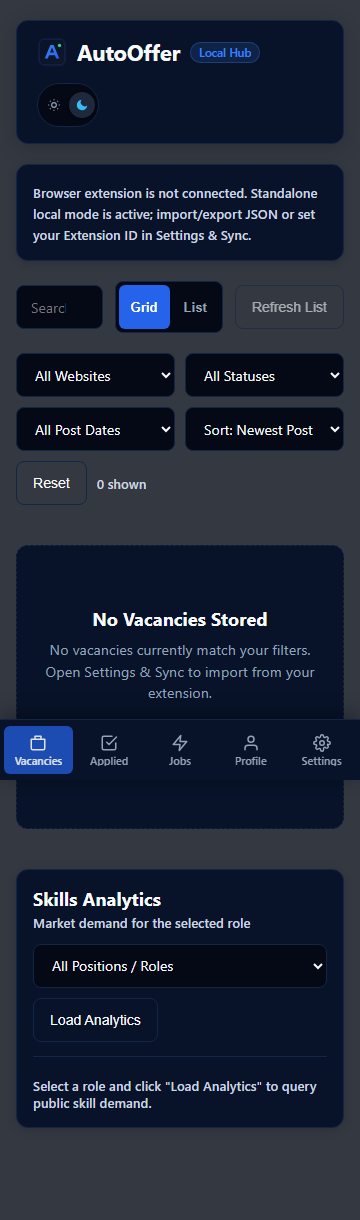
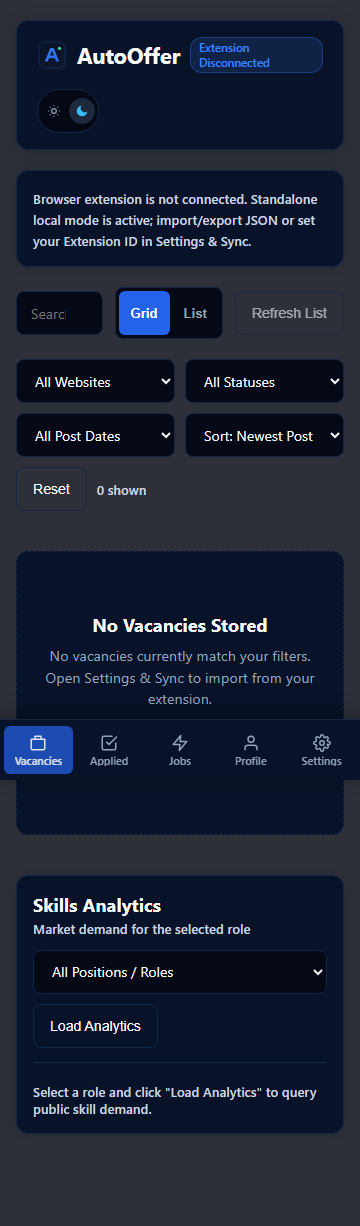
Add tests

diff --git a/src/client/pwa/tests/integration.spec.js b/src/client/pwa/tests/integration.spec.js
@@ -1,7 +1,11 @@
-import { flushPromises, mount } from '@vue/test-utils';
+import 'fake-indexeddb/auto';
+import { mount } from '@vue/test-utils';
 import { createPinia, setActivePinia } from 'pinia';
-import { beforeEach, describe, expect, it, vi } from 'vitest';
+import { beforeAll, beforeEach, describe, expect, it, vi } from 'vitest';
 import { createMemoryHistory, createRouter } from 'vue-router';
+import { db } from '../../extension/database/database.js';
+import { setSetting } from '../../extension/database/repository.js';
+import { seedDatabase } from '../../extension/database/seed.js';
 import App from '../src/App.vue';
 import JobsPage from '../src/pages/JobsPage.vue';
 import ProfilePage from '../src/pages/ProfilePage.vue';
@@ -9,82 +13,89 @@ import SettingsPage from '../src/pages/SettingsPage.vue';
 import { routes } from '../src/router/index.js';
 import { useAppStore } from '../src/stores/appStore.js';
 
-vi.mock('../../../extension/database/seed.js', () => ({
-    seedDatabase: vi.fn().mockResolvedValue(undefined),
-}));
-vi.mock('../../../extension/database/crypto.js', () => ({
-    migrateLegacySecrets: vi.fn().mockResolvedValue(undefined),
-    saveAiConfiguration: vi.fn().mockResolvedValue('cfg-1'),
-}));
-vi.mock('../src/services/bridge.js', () => ({
-    calculateStorageWeight: vi.fn().mockResolvedValue({ bytes: 1024, formatted: '1 KB' }),
-    callExtension: vi.fn(),
-    detectExtensionStatus: vi.fn().mockResolvedValue({ connected: false, text: 'Standalone Mode', type: 'normal' }),
-    exportLocalBackup: vi.fn(),
-    getExtensionId: vi.fn().mockReturnValue(''),
-    importLocalBackup: vi.fn(),
-    mirrorVacanciesToLocalDb: vi.fn(),
-    saveSingleSetting: vi.fn().mockResolvedValue(undefined),
-    setupExtensionAutoPairing: vi.fn().mockResolvedValue(null),
-    syncApplicationsFromBridge: vi.fn().mockResolvedValue(undefined),
-}));
+const baseUrl = (process.env.AO_API_URL || 'http://localhost:8080').replace(/\/+$/, '');
 
-describe('PWA Integration Flows', () => {
-    beforeEach(() => {
+beforeAll(async () => {
+    try {
+        const res = await fetch(`${baseUrl}/api/health`);
+        if (!res.ok) throw new Error(`HTTP ${res.status}`);
+    } catch (err) {
+        throw new Error(
+            `Real backend server is not reachable at ${baseUrl}/api/health (${err.message}). Start PostgreSQL, ClickHouse, and Spring Boot before running npm test.`
+        );
+    }
+});
+
+describe('PWA Integration Flows (Real IndexedDB, Router & Backend)', () => {
+    beforeEach(async () => {
         setActivePinia(createPinia());
         localStorage.clear();
+        await db.open();
+        for (const table of db.tables) {
+            await table.clear();
+        }
+        await seedDatabase();
+        await setSetting('server_base_url', baseUrl);
     });
 
-    it('navigates between routes via Vue Router inside App', async () => {
+    it('navigates between routes via Vue Router inside App with real DB & backend', async () => {
         const router = createRouter({ history: createMemoryHistory(), routes });
         await router.push('/vacancies');
         await router.isReady();
 
         const store = useAppStore();
-        vi.spyOn(store, 'bootstrap').mockResolvedValue(undefined);
+        store.settings.server_base_url = baseUrl;
 
         const wrapper = mount(App, { global: { plugins: [router] } });
-        expect(wrapper.text()).toContain('No Vacancies Stored');
+        await vi.waitFor(() => {
+            expect(wrapper.text()).toContain('No Vacancies Stored');
+        });
 
         await router.push('/settings');
-        await flushPromises();
-        expect(wrapper.text()).toContain('Display & Accessibility Preferences');
+        await vi.waitFor(() => {
+            expect(wrapper.text()).toContain('Display & Accessibility Preferences');
+        });
     });
 
-    it('validates ProfilePage form before saving', async () => {
+    it('validates ProfilePage form and persists profile to IndexedDB', async () => {
         const store = useAppStore();
-        store.profiles = [{ profile_id: 'p-1', profile_name: 'Default', is_default: 1, first_name: '', last_name: '', email: '' }];
-        store.activeProfileId = 'p-1';
-        const saveSpy = vi.spyOn(store, 'saveProfile').mockResolvedValue(undefined);
+        await store.loadProfiles();
 
         const wrapper = mount(ProfilePage);
         await wrapper.find('.primary-btn').trigger('click');
         expect(wrapper.text()).toContain('required');
-        expect(saveSpy).not.toHaveBeenCalled();
+        expect(await db.personal_data.count()).toBe(0);
 
         await wrapper.find('#prof-first').setValue('Anna');
         await wrapper.find('#prof-last').setValue('Koval');
         await wrapper.find('#prof-email').setValue('anna@example.com');
         await wrapper.find('.primary-btn').trigger('click');
-        expect(saveSpy).toHaveBeenCalledOnce();
+        await vi.waitFor(async () => {
+            expect(await db.personal_data.count()).toBe(1);
+        });
+
+        const saved = await db.personal_data.toArray();
+        expect(saved[0].email).toBe('anna@example.com');
     });
 
-    it('validates JobsPage form and saves job when valid', async () => {
+    it('validates JobsPage form and persists job to IndexedDB using seeded platforms', async () => {
         const store = useAppStore();
-        store.profiles = [{ profile_id: 'p-1', profile_name: 'Default', roles: '' }];
-        store.activeProfileId = 'p-1';
-        store.platforms = [{ id: 'pl-1', name: 'Indeed', code: 'indeed.com', url: 'https://www.indeed.com', permission_status: 'granted' }];
-        const saveJobSpy = vi.spyOn(store, 'saveJob').mockResolvedValue(undefined);
+        await Promise.all([store.loadProfiles(), store.loadPlatforms()]);
 
         const wrapper = mount(JobsPage);
         await wrapper.find('.primary-btn').trigger('click');
         expect(wrapper.text()).toContain('Select at least one target platform');
-        expect(saveJobSpy).not.toHaveBeenCalled();
+        expect(await db.automation_jobs.count()).toBe(0);
 
         await wrapper.find('.platform-chip').trigger('click');
         await wrapper.find('#job-roles').setValue('Frontend Developer');
         await wrapper.find('.primary-btn').trigger('click');
-        expect(saveJobSpy).toHaveBeenCalledOnce();
+        await vi.waitFor(async () => {
+            expect(await db.automation_jobs.count()).toBe(1);
+        });
+
+        const jobs = await db.automation_jobs.toArray();
+        expect(jobs[0].roles).toBe('Frontend Developer');
     });
 
     it('updates UI scale and theme in SettingsPage', async () => {
@@ -93,5 +104,6 @@ describe('PWA Integration Flows', () => {
         await wrapper.find('#display-scale').setValue('120');
         expect(store.uiScale).toBe(120);
         expect(document.documentElement.style.fontSize).toBe('120%');
+        expect(localStorage.getItem('ao_ui_scale')).toBe('120');
     });
 });

diff --git a/src/client/pwa/tests/pwa.spec.js b/src/client/pwa/tests/pwa.spec.js
@@ -1,6 +1,7 @@
+import 'fake-indexeddb/auto';
 import { mount } from '@vue/test-utils';
 import { createPinia, setActivePinia } from 'pinia';
-import { beforeEach, describe, expect, it, vi } from 'vitest';
+import { beforeAll, beforeEach, describe, expect, it, vi } from 'vitest';
 import { createMemoryHistory, createRouter } from 'vue-router';
 import AppHeader from '../src/components/AppHeader.vue';
 import HotwordsChart from '../src/components/HotwordsChart.vue';
@@ -10,7 +11,20 @@ import { updateDeviceSnapshot } from '../src/composables/useDeviceInfo.js';
 import { registerGlobalHttpErrorHandler, requestJson } from '../src/services/httpClient.js';
 import { useAppStore } from '../src/stores/appStore.js';
 
-describe('PWA Vue Components & Services', () => {
+const baseUrl = (process.env.AO_API_URL || 'http://localhost:8080').replace(/\/+$/, '');
+
+beforeAll(async () => {
+    try {
+        const res = await fetch(`${baseUrl}/api/health`);
+        if (!res.ok) throw new Error(`HTTP ${res.status}`);
+    } catch (err) {
+        throw new Error(
+            `Real backend server is not reachable at ${baseUrl}/api/health (${err.message}). Start PostgreSQL, ClickHouse, and Spring Boot before running npm test.`
+        );
+    }
+});
+
+describe('PWA Vue Components & Services (Real Backend)', () => {
     beforeEach(() => {
         setActivePinia(createPinia());
     });
@@ -30,7 +44,7 @@ describe('PWA Vue Components & Services', () => {
         expect(wrapper.text()).toContain('Total Vacancies');
     });
 
-    it('AppHeader renders 5 navigation links and emits toggle-theme', async () => {
+    it('AppHeader renders 5 navigation links, connection badge, and emits toggle-theme', async () => {
         const router = createRouter({
             history: createMemoryHistory(),
             routes: [
@@ -45,9 +59,12 @@ describe('PWA Vue Components & Services', () => {
         await router.isReady();
 
         const wrapper = mount(AppHeader, {
-            props: { theme: 'dark' },
+            props: { theme: 'dark', connected: false },
             global: { plugins: [router] },
         });
+        expect(wrapper.find('.hub-badge').text()).toBe('Extension Disconnected');
+        await wrapper.setProps({ connected: true });
+        expect(wrapper.find('.hub-badge').text()).toBe('Extension Connected');
         expect(wrapper.findAll('.pwa-nav-btn')).toHaveLength(5);
         await wrapper.find('.theme-toggle-pill').trigger('click');
         expect(wrapper.emitted('toggle-theme')).toHaveLength(1);
@@ -62,33 +79,40 @@ describe('PWA Vue Components & Services', () => {
         expect(store.toasts).toHaveLength(0);
     });
 
-    it('HotwordsChart mounts with empty state prompt', () => {
+    it('HotwordsChart loads positions from real backend /api/dictionaries/bootstrap', async () => {
+        const store = useAppStore();
+        store.settings.server_base_url = baseUrl;
+
         const wrapper = mount(HotwordsChart);
+        await vi.waitFor(() => {
+            expect(wrapper.text()).toContain('Backend Developer');
+        });
         expect(wrapper.text()).toContain('Skills Analytics');
         expect(wrapper.find('select').exists()).toBe(true);
     });
 
-    it('httpClient handles 404/500 errors and notifies global handler', async () => {
-        const handler = vi.fn();
-        registerGlobalHttpErrorHandler(handler);
-        vi.stubGlobal('fetch', vi.fn().mockResolvedValue({ ok: false, status: 404, statusText: 'Not Found' }));
+    it('httpClient handles real 401/403 response from backend and notifies global handler', async () => {
+        const captured = [];
+        registerGlobalHttpErrorHandler((msg) => captured.push(msg));
 
-        await expect(requestJson('http://localhost:8080/api/missing')).rejects.toThrow(/404/);
-                expect(handler).toHaveBeenCalledWith(expect.stringContaining('404'));
-                vi.unstubAllGlobals();
+        await expect(requestJson(`${baseUrl}/api/admin/selectors/queue`)).rejects.toMatchObject({
+            name: 'HttpApiError',
         });
+        expect(captured).toHaveLength(1);
+        expect(captured[0]).toMatch(/HTTP 40[13]/);
+    });
 
-        it('useDeviceInfo detects device type and orientation attributes', () => {
-                Object.defineProperty(window, 'innerWidth', { configurable: true, value: 360 });
-                Object.defineProperty(window, 'innerHeight', { configurable: true, value: 780 });
-                updateDeviceSnapshot();
-                expect(document.documentElement.getAttribute('data-device')).toBe('mobile');
-                expect(document.documentElement.getAttribute('data-orientation')).toBe('portrait');
+    it('useDeviceInfo detects device type and orientation attributes', () => {
+        Object.defineProperty(window, 'innerWidth', { configurable: true, value: 360 });
+        Object.defineProperty(window, 'innerHeight', { configurable: true, value: 780 });
+        updateDeviceSnapshot();
+        expect(document.documentElement.getAttribute('data-device')).toBe('mobile');
+        expect(document.documentElement.getAttribute('data-orientation')).toBe('portrait');
 
-                Object.defineProperty(window, 'innerWidth', { configurable: true, value: 1920 });
-                Object.defineProperty(window, 'innerHeight', { configurable: true, value: 1080 });
-                updateDeviceSnapshot();
-                expect(document.documentElement.getAttribute('data-device')).toBe('ultrawide');
-                expect(document.documentElement.getAttribute('data-orientation')).toBe('landscape');
-        });
+        Object.defineProperty(window, 'innerWidth', { configurable: true, value: 1920 });
+        Object.defineProperty(window, 'innerHeight', { configurable: true, value: 1080 });
+        updateDeviceSnapshot();
+        expect(document.documentElement.getAttribute('data-device')).toBe('ultrawide');
+        expect(document.documentElement.getAttribute('data-orientation')).toBe('landscape');
+    });
 });

diff --git a/src/client/pwa/src/components/AppHeader.vue b/src/client/pwa/src/components/AppHeader.vue
@@ -4,7 +4,9 @@
             <div class="brand-group">
                 <img :src="`${baseUrl}image.svg`" alt="AutoOffer logo" class="header-brand-logo" width="30" height="30" />
                 <h1 class="header-brand-title">AutoOffer</h1>
-                <span class="hub-badge">Local Hub</span>
+                <span class="hub-badge" :class="{ 'hub-badge--connected': connected }">
+                    {{ connected ? 'Extension Connected' : 'Extension Disconnected' }}
+                </span>
             </div>
             <div class="header-actions">
                 <nav class="pwa-nav" aria-label="Main navigation">
@@ -51,7 +53,8 @@
 const baseUrl = import.meta.env.BASE_URL || '/';
 
 defineProps({
-    theme: { type: String, default: 'dark' },
+        theme: { type: String, default: 'dark' },
+        connected: { type: Boolean, default: false },
 });
 defineEmits(['toggle-theme']);
 

diff --git a/src/client/pwa/src/services/httpClient.js b/src/client/pwa/src/services/httpClient.js
@@ -38,7 +38,7 @@ function mapStatusMessage(status, fallback, serverDetail, url) {
     if (status === 400) return `Invalid request sent to ${url} · HTTP 400.${detailSuffix}`;
     if (status === 401) return `Authentication required or token expired for ${url} · HTTP 401.${detailSuffix}`;
     if (status === 403) return `Access denied by server policy for ${url} · HTTP 403.${detailSuffix}`;
-    if (status === 404) return `Backend endpoint not found at ${url} · HTTP 404. Verify Server API Base URL in Settings & Sync.`;
+    if (status === 404) return `Backend endpoint not found at ${url} · HTTP 404.${detailSuffix} Verify Server API Base URL in Settings & Sync.`;
     if (status >= 500) return `Backend server error at ${url} · HTTP ${status}.${detailSuffix} Check server logs and retry.`;
     return `${fallback || 'Request failed'} (${url}) · HTTP ${status}.${detailSuffix}`;
 }

diff --git a/src/client/pwa/src/App.vue b/src/client/pwa/src/App.vue
@@ -1,7 +1,7 @@
 <template>
     <div class="layout-container">
         <a href="#main-content" class="skip-link">Skip to main content</a>
-        <AppHeader :theme="store.theme" @toggle-theme="store.toggleTheme()" />
+        <AppHeader :theme="store.theme" :connected="store.isExtensionConnected" @toggle-theme="store.toggleTheme()" />
         <main id="main-content" tabindex="-1">
             <ErrorBoundary>
                 <router-view />

diff --git a/src/client/pwa/src/styles/main.css b/src/client/pwa/src/styles/main.css
@@ -1783,6 +1783,17 @@ font-size: 0.62rem;
     outline-offset: 2px;
 }
 
+.hub-badge--connected {
+    background: rgba(16, 185, 129, 0.15);
+    color: #34d399;
+    border-color: rgba(16, 185, 129, 0.35);
+}
+
+[data-theme="light"] .hub-badge {
+    color: #1d4ed8;
+}
+
+[data-theme="light"] .hub-badge--connected,
 [data-theme="light"] .tag-status {
     background: #d1fae5;
     color: #065f46;
